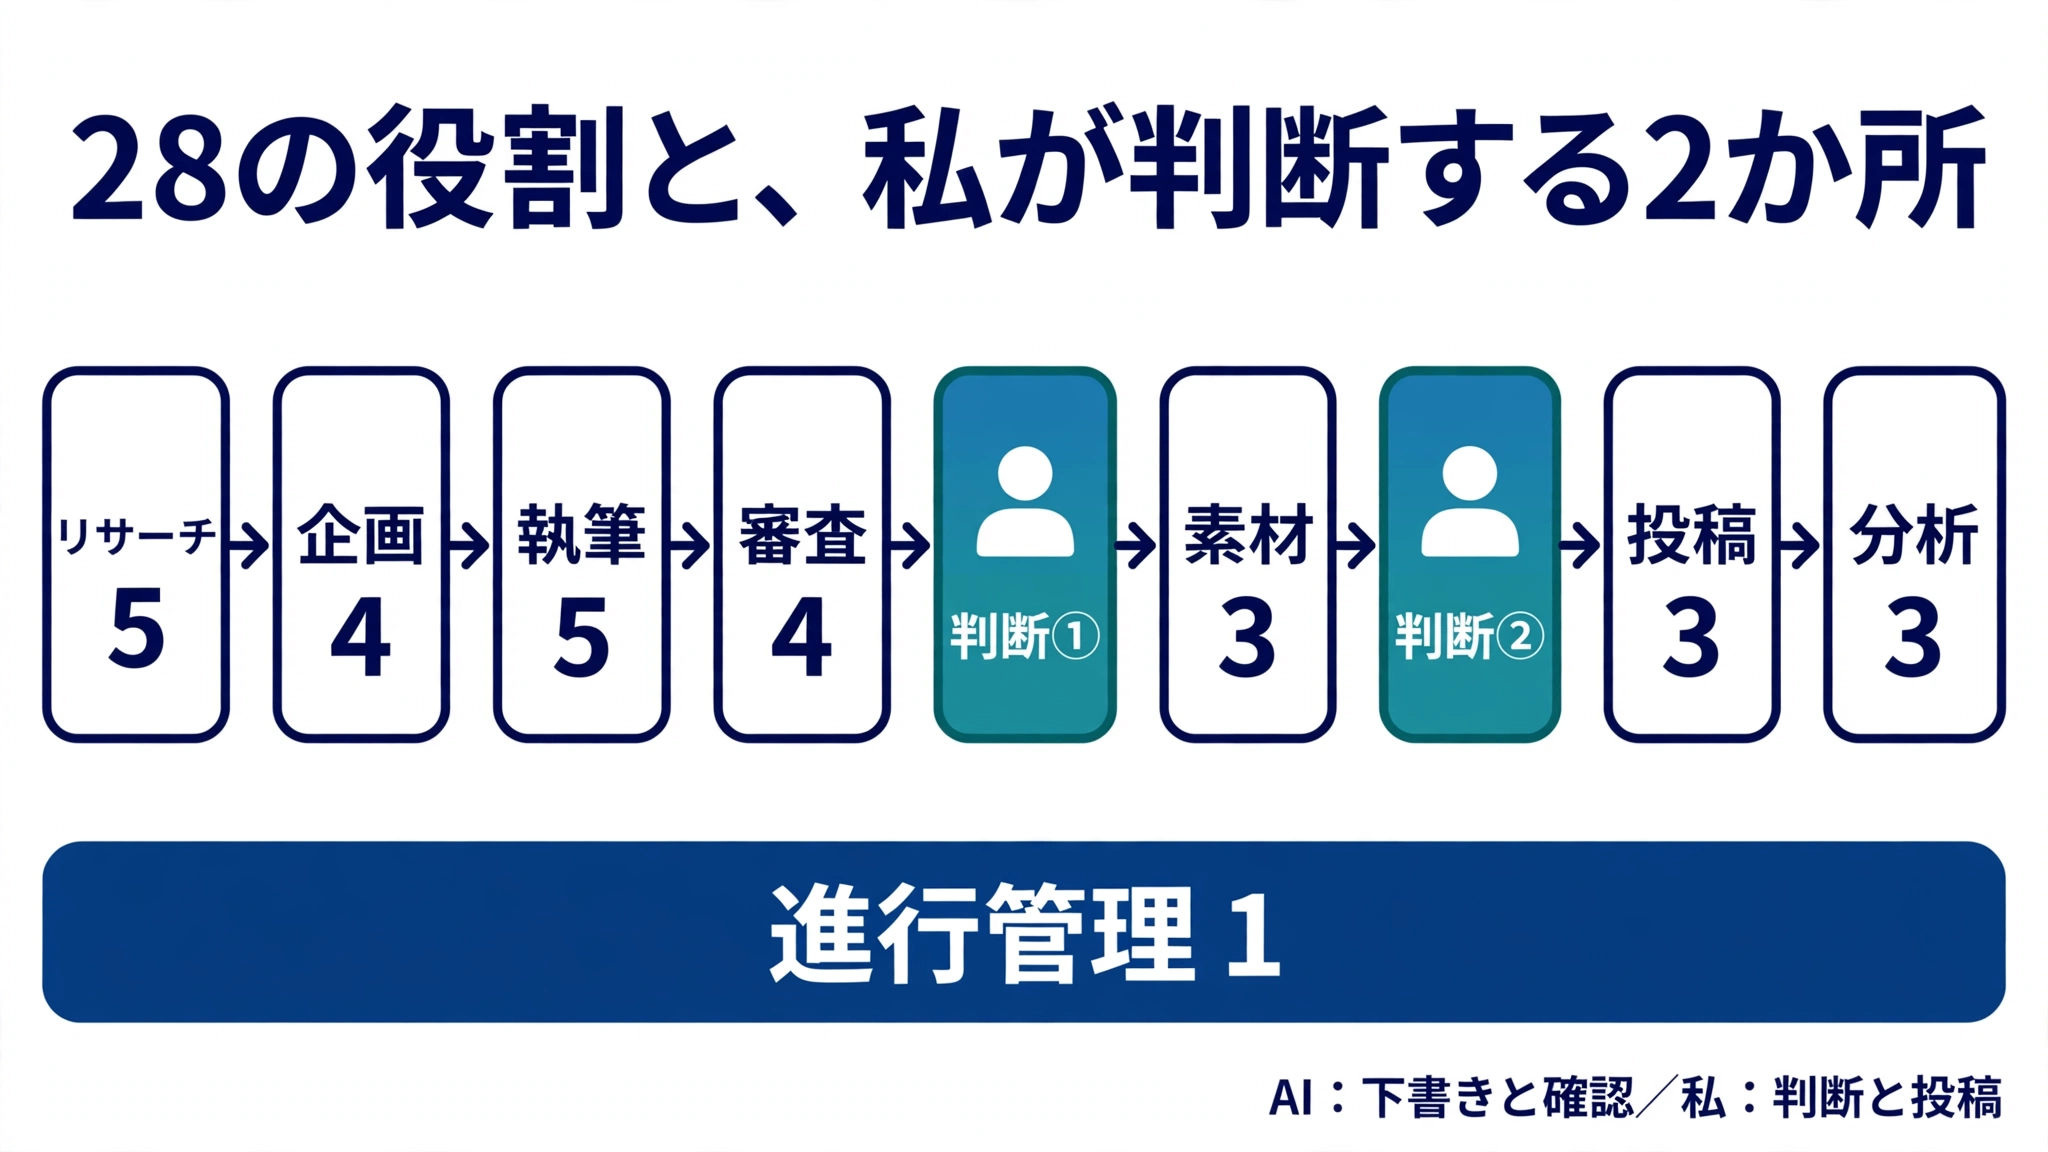
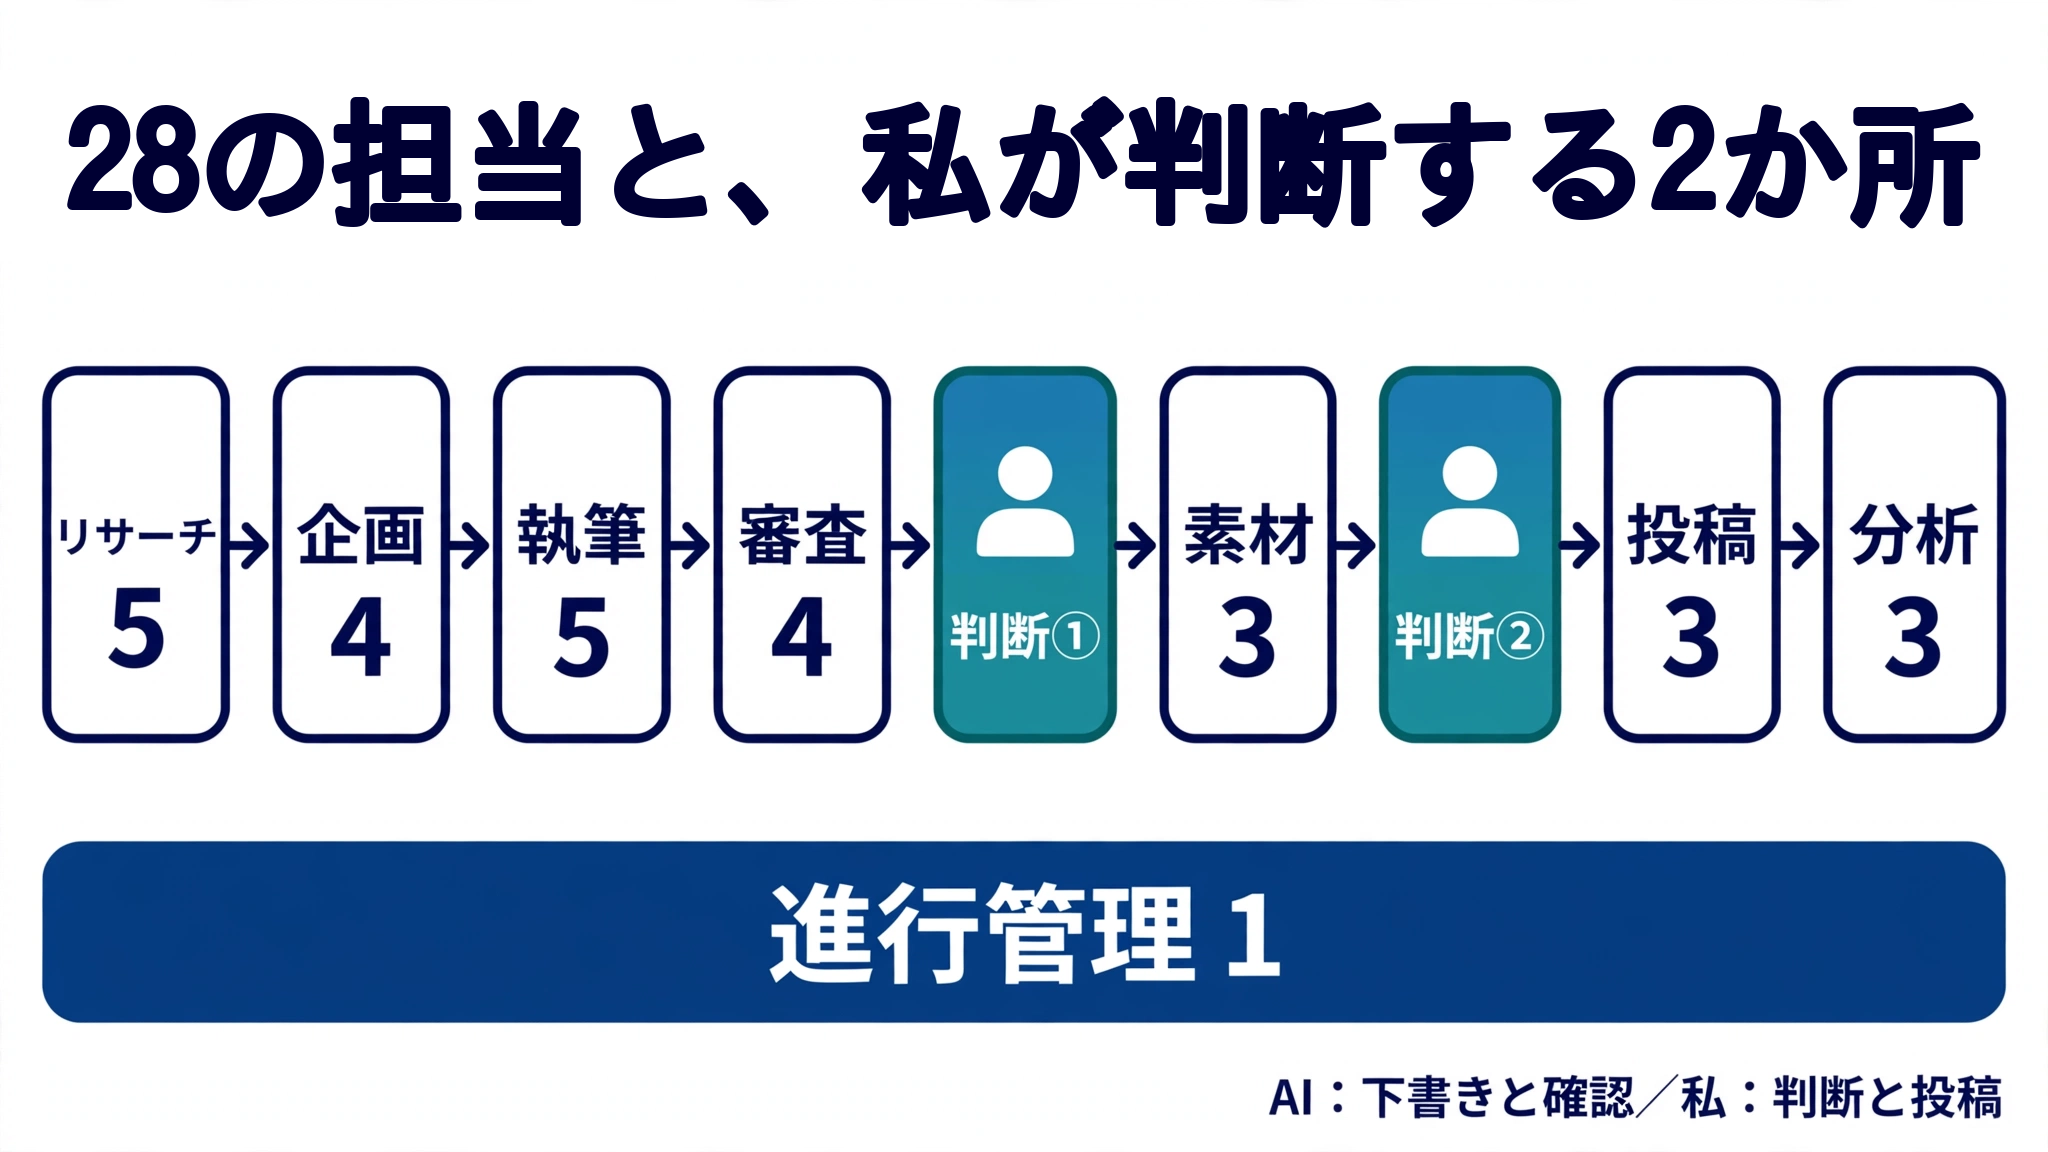
呼び方を「28の担当」に統一（本文・ルール・画像②③）
Claude-Session: https://claude.ai/code/session_013AsTj4YgXtdFyZCq64SSRW

Changed region(s): [[0.0312, 0.0938, 0.9688, 0.2188]]

diff --git a/note-threads-ai-team/drafts/2026-11-10_article01_body.md b/note-threads-ai-team/drafts/2026-11-10_article01_body.md
@@ -4,7 +4,7 @@
 
 ただ、AIに「記事を書いて」と頼むだけでは、自分の力にならないと思いました。そこで最初の2日間（2026年11月9日〜10日）は、記事を書く前に、AIと一緒に「何を、どう作るか」を決めることに使いました。
 
-具体的には、AIに「調べる」「書く」「確認する」など28の役割を割り当てて、記事作りを分担させる仕組みです。
+具体的には、AIに「調べる」「書く」「確認する」など28の担当を割り当てて、記事作りを分担させる仕組みです。
 
 今の時点で、収益は0円、フォロワーも0人です。この記事が1本目です。
 
@@ -57,7 +57,7 @@
 | 9 | 私が確認するタイミング | 2か所に絞る |
 | 10 | 作業時間 | 平日2時間、休日3〜4時間 |
 
-決まったことは、その場でファイルに保存してもらいました。最終的に、ルールや役割を書いたファイルは24個になりました。
+決まったことは、その場でファイルに保存してもらいました。最終的に、ルールや担当を書いたファイルは24個になりました。
 
 【画像②：images/article01_fig2_files.png（作った24個のファイルの内訳の図）】
 
@@ -87,11 +87,11 @@ AIの答えは「この条件だと、達成の可能性は低い」というも
 
 ---
 
-## 仕組みの全体像：28の役割と、止まる場所は2つだけ
+## 仕組みの全体像：28の担当と、止まる場所は2つだけ
 
 AIと一緒に作ったチームの全体像です。
 
-| 部署 | 役割の数 | 主な仕事 |
+| 部署 | 担当の数 | 主な仕事 |
 |---|---|---|
 | リサーチ | 5 | 市場調査、競合調査、参考記事の収集、トレンド調査、読者分析 |
 | 企画 | 4 | 企画立案、テーマ選定、構成設計、見出し設計 |
@@ -102,9 +102,9 @@ AIと一緒に作ったチームの全体像です。
 | 分析 | 3 | コメント分析、数値分析、改善提案 |
 | 進行管理 | 1 | 全体の進行と、私への質問のとりまとめ |
 
-【画像③：images/article01_fig3_roles.png（28の役割と、私が判断する2か所の図解）】
+【画像③：images/article01_fig3_roles.png（28の担当と、私が判断する2か所の図解）】
 
-役割は28ありますが、私が判断する場所は2つだけにしました。
+担当は28ありますが、私が判断する場所は2つだけにしました。
 
 1. 事実確認と表現チェックが終わった後（価格や、事実が合っているかを確認する）
 2. 公開の直前（チェックリストを見て、自分の手で投稿する）
@@ -167,14 +167,14 @@ AIと一緒に作ったチームの全体像です。
 | 収益 | 0円 |
 | noteのフォロワー | 0人 |
 | 公開した記事 | 0本（この記事が1本目） |
-| 作ったルール・役割のファイル | 24個 |
+| 作ったルール・担当のファイル | 24個 |
 | かかった作業時間 | 1日2〜3時間（2日間で約4〜6時間） |
 
 ---
 
 ## 真似するなら、この3ステップから
 
-28の役割を最初から作る必要はありません。まずは次の3つで十分だと思います。
+28の担当を最初から作る必要はありません。まずは次の3つで十分だと思います。
 
 1. AIに「一度に1問ずつ質問して、決まったことをファイルに保存して」と頼む
 2. 最初に「使わない言葉」と「扱わないテーマ」を決める

diff --git a/note-threads-ai-team/rules/tone.md b/note-threads-ai-team/rules/tone.md
@@ -7,7 +7,7 @@
 | 一人称 | 私（変更可） |
 | 文体 | **note：です・ます調（2026-11-10確定）**。気持ちの声や見出し・強調の短い一文に限り、常体（「〜したい。」「〜だろう。」）を混ぜてよい／Threads：短文、です・ます調を基本に口語を少し混ぜてよい |
 | 失敗の扱い | 各記事に最低1つ、実際の失敗・未解決の課題を入れる |
-| 言葉 | 内部の呼び方（「記事チーム」など）を説明なしで使わない。AIの役割は「28人」ではなく「28の役割」と書く（人数のように読める誇張を避ける） |
+| 言葉 | 内部の呼び方（「記事チーム」など）を説明なしで使わない。AIの担当は「28人」ではなく「28の担当」と書く（人数のように読める誇張を避ける。2026-11-10、本人の決定） |
 | 数字 | 実測値のみ。「いつ時点の」「何日間で」を必ず添える。予測は「目標」「見込み」と明記。**自分の目標金額は記事に書かない**（account_profile.md「当面の公開方針」） |
 | 絵文字 | note：使わない。使う場合も1記事に合計1〜2個まで。**リンク誘導の矢印（⬇など）や見出しの目印も個数に含める**（2026-11-10承認）。誘導は「▼」「→」などの記号か文字で行う／Threads：暫定1投稿1個まで。よく見られている投稿の絵文字の個数を調べて決める（未確認） |
 

diff --git a/note-threads-ai-team/CHANGELOG.md b/note-threads-ai-team/CHANGELOG.md
@@ -39,3 +39,4 @@
 | 2026-11-10 | drafts/images/ | noteプロフィールのアイコン（800×800px）とヘッダー（1280×670px）を、Museの画像から切り抜いて作成 | 人が画像を共有 | ― |
 | 2026-11-10 | drafts/images/ | noteアイコンの第2版（案3：やわらかいイラスト、後ろ姿）を800×800pxで作成 | 人が画像を共有 | ― |
 | 2026-11-10 | drafts/、rules/tone.md、rules/account_profile.md | 記事No.01のタイトルを「働き方を変えたい23歳、AIとnoteで準備を始める」に変更、冒頭に目的を追加。構成型に「0. 目的」、トーンに「内部の呼び方を使わない・28人ではなく28の役割」、前提に「発信の目的」を追加 | 家族からの指摘、人の承認 | 発信者 |
+| 2026-11-10 | drafts/、rules/tone.md、drafts/images/ | 呼び方を「28の担当」に統一（本文8か所、トーンのルール、画像②③の文字） | 本人の決定 | 発信者 |
